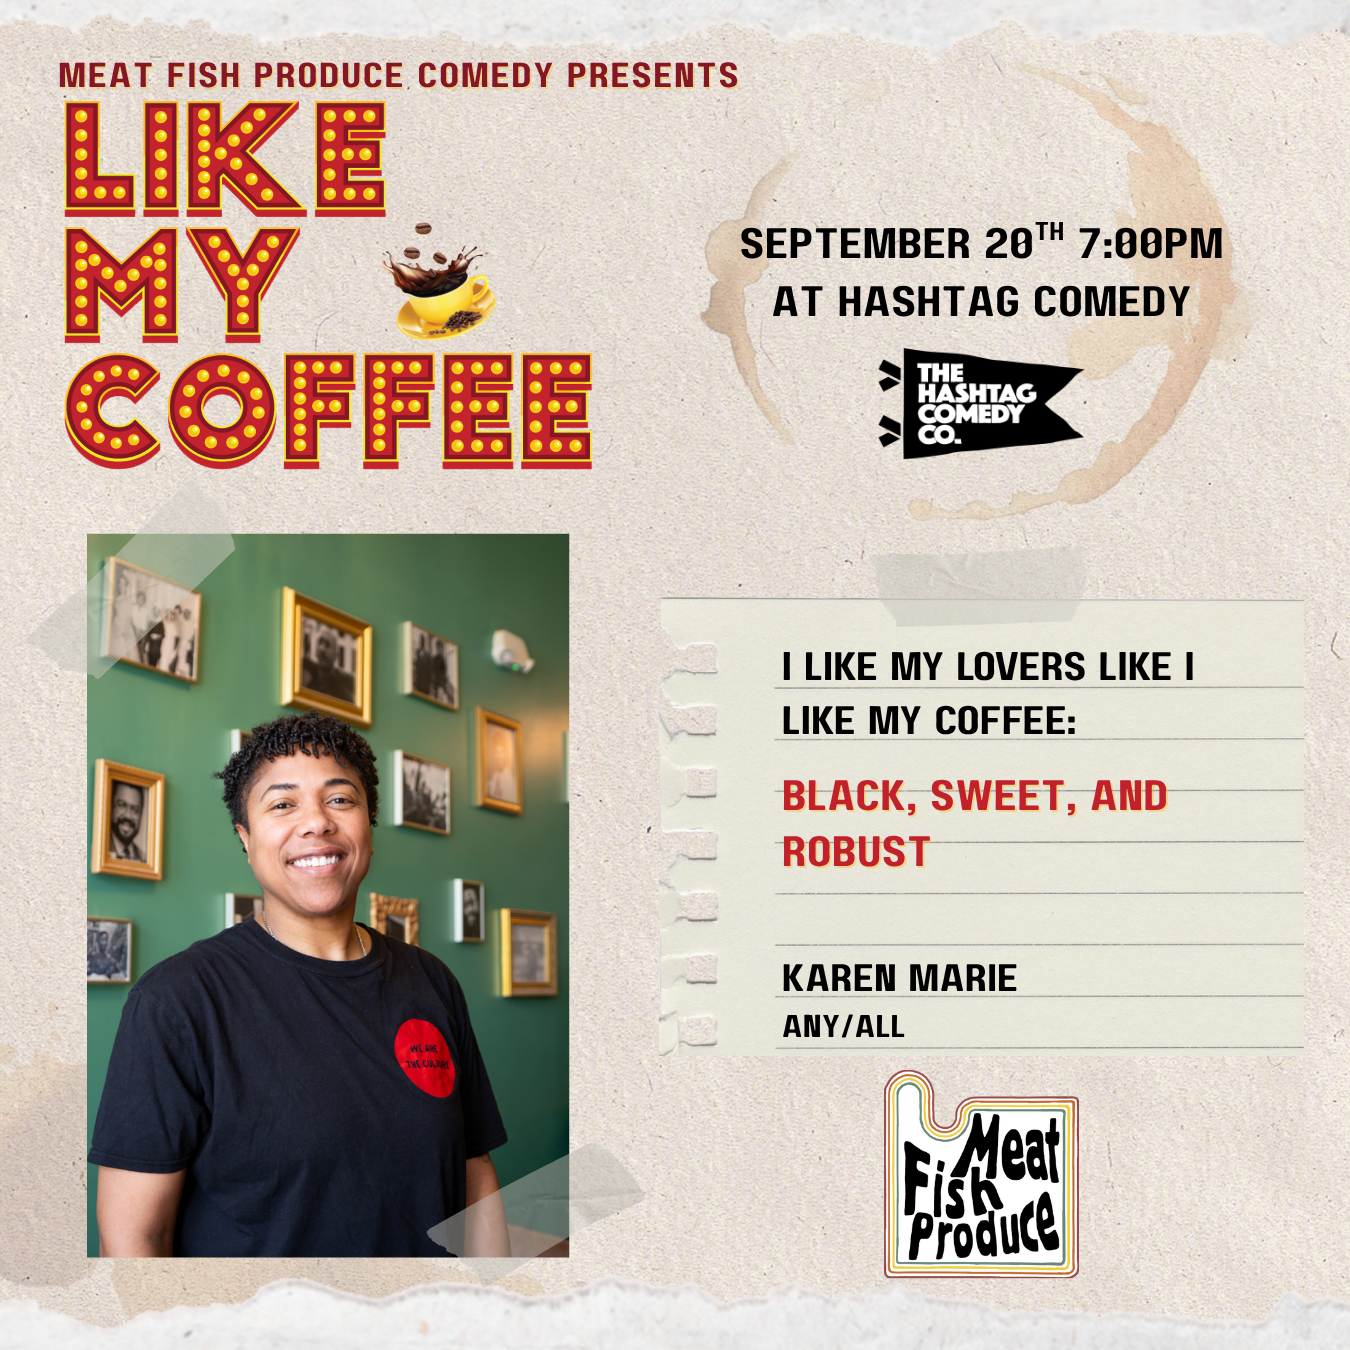
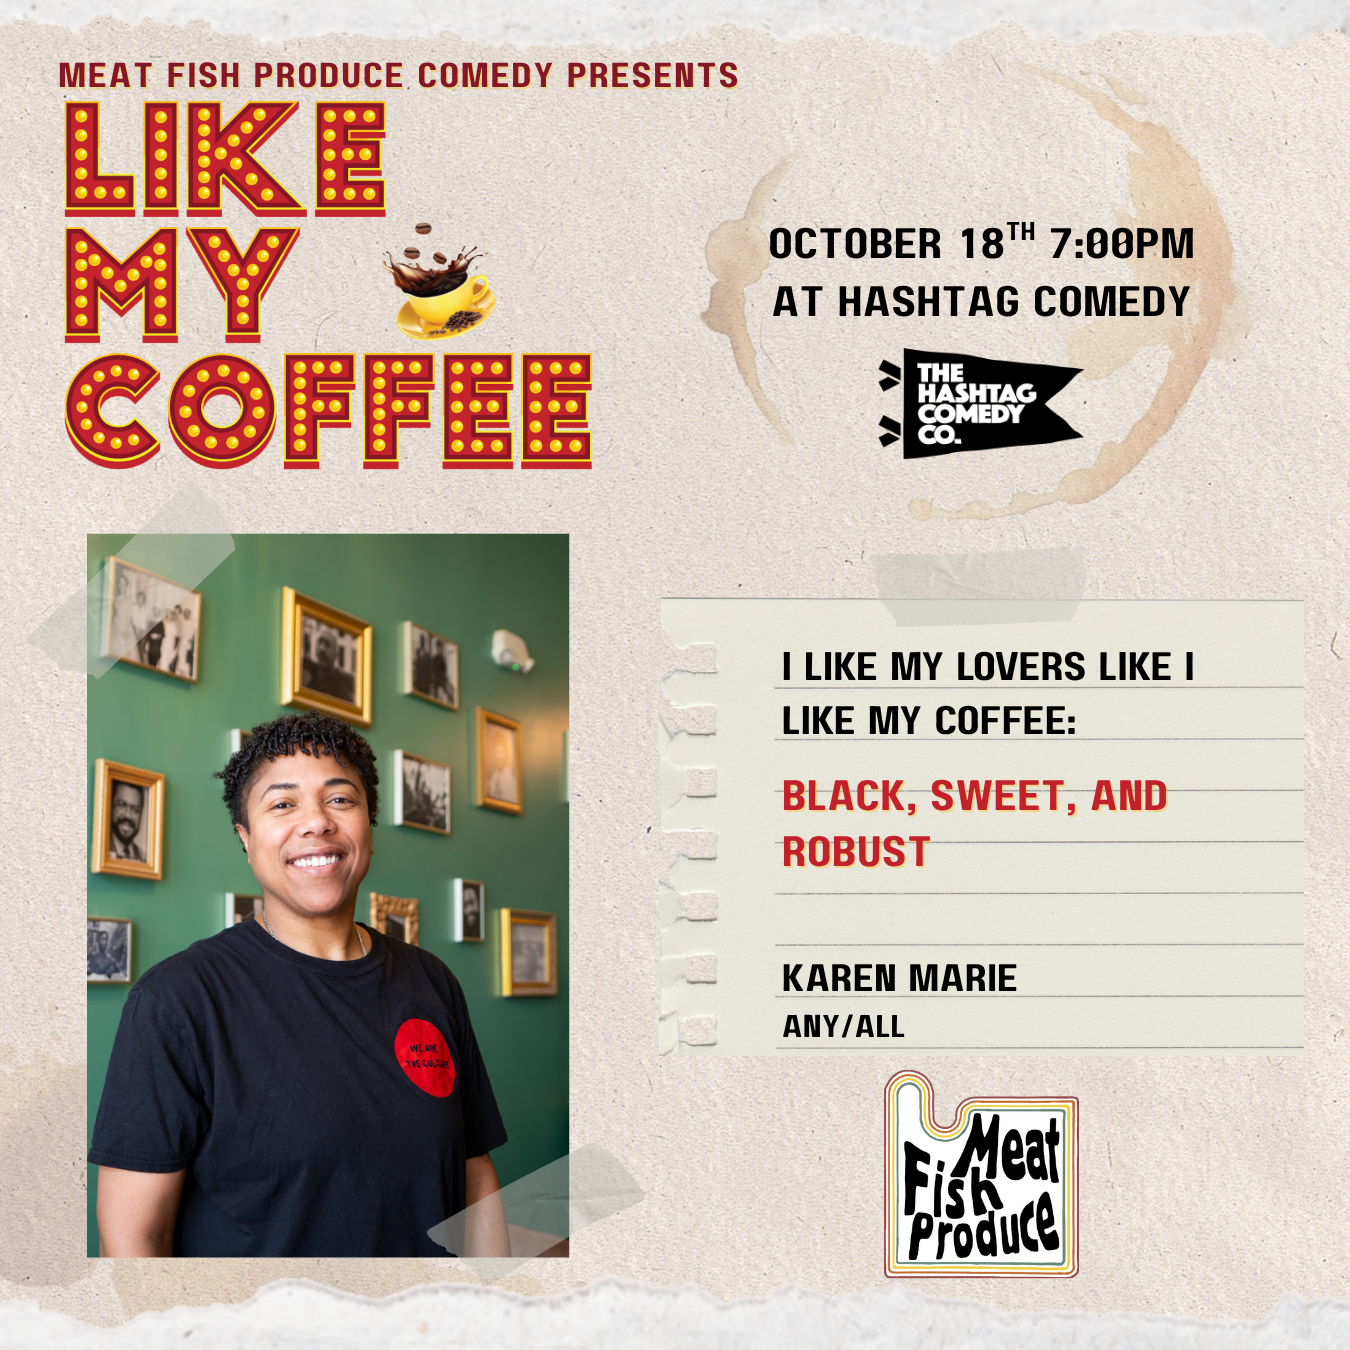
Prepping for October 18 show

Changed region(s): [[0.5289, 0.1556, 0.9022, 0.2178]]

diff --git a/server/src/shows/20261018.ts b/server/src/shows/20261018.ts
@@ -1,0 +1,156 @@
+import { ShowType } from "../../sharedCopy";
+import { minigames } from "./games";
+
+export const show: ShowType = {
+	rounds: [
+		{
+			players: [
+				{
+					displayName: "Benito",
+					pronouns: "He/Him",
+					score: 0,
+					soundIndex: 0,
+					isWinner: false,
+				},
+				{
+					displayName: "Lulu",
+					pronouns: "She/Her",
+					score: 0,
+					soundIndex: 1,
+					isWinner: false,
+				},
+				{
+					displayName: "LeRon",
+					pronouns: "He/Him",
+					score: 0,
+					soundIndex: 2,
+					isWinner: false,
+				},
+			],
+			minigame: minigames.kids.name,
+			example: minigames.kids.example,
+			timelength: 12,
+			prompts: [
+				"Something in your living room",
+				"Profession you want",
+				"Something you want",
+			],
+		},
+		{
+			players: [
+				{
+					displayName: "Danny",
+					pronouns: "He/Him",
+					score: 0,
+					soundIndex: 3,
+					isWinner: false,
+				},
+				{
+					displayName: "Laura",
+					pronouns: "She/Her",
+					score: 0,
+					soundIndex: 4,
+					isWinner: false,
+				},
+				{
+					displayName: "Justin",
+					pronouns: "He/Him",
+					score: 0,
+					soundIndex: 5,
+					isWinner: false,
+				},
+			],
+			minigame: minigames.scare.name,
+			example: minigames.scare.example,
+			timelength: 12,
+			prompts: [
+				"Something in your kitchen",
+				"Profession you work now",
+				"Something you need",
+			],
+		},
+		{
+			players: [
+				{
+					displayName: "Chakra Quan",
+					pronouns: "She/Her",
+					score: 0,
+					soundIndex: 6,
+					isWinner: false,
+				},
+				{
+					displayName: "Karen",
+					pronouns: "Any/All",
+					score: 0,
+					soundIndex: 7,
+					isWinner: false,
+				},
+				{
+					displayName: "Karissa",
+					pronouns: "She/Her",
+					score: 0,
+					soundIndex: 8,
+					isWinner: false,
+				},
+			],
+			minigame: minigames.sponsored.name,
+			example: minigames.sponsored.example,
+			timelength: 12,
+			prompts: [
+				"Something in your bathroom",
+				"Profession you hate",
+				"Something you hate",
+			],
+		},
+		{
+			players: [
+				{
+					displayName: "Dummy Data",
+					pronouns: "",
+					score: 0,
+					soundIndex: 9,
+					isWinner: false,
+				},
+				{
+					displayName: "Dummy Data",
+					pronouns: "",
+					score: 0,
+					soundIndex: 10,
+					isWinner: false,
+				},
+				{
+					displayName: "Dummy Data",
+					pronouns: "",
+					score: 0,
+					soundIndex: 11,
+					isWinner: false,
+				},
+			],
+			minigame: "",
+			example: "",
+			timelength: 10,
+			prompts: [
+				"Something in your Attic/Basement",
+				"Profession you're unqualified for",
+				"Something someone gave you",
+			],
+		},
+	],
+	images: [
+		"Benito.png",
+		"Chakra.png",
+		"Danny.png",
+		"Justin.png",
+		"Karen.png",
+		"Karissa.png",
+		"Laura.png",
+		"LeRon.png",
+		"Lulu.png",
+		"Chris.png",
+		"GCAC.png",
+		"Linktree.png",
+		"AI.png",
+		"Apply.png",
+	],
+	logo: "logo.png",
+};

diff --git a/server/src/shows/archived/20260920.ts b/server/src/shows/archived/20260920.ts
@@ -1,5 +1,5 @@
-import { ShowType } from "../../sharedCopy";
-import { minigames } from "./games";
+import { ShowType } from "../../../sharedCopy";
+import { minigames } from "../games";
 
 export const show: ShowType = {
 	rounds: [

diff --git a/server/src/shows/games.ts b/server/src/shows/games.ts
@@ -21,6 +21,6 @@ export const minigames = {
 	},
 	kids: {
 		name: "Kids Say Some Messed Up Things",
-		example: "Toot, juice box, a dark dark forest"
+		example: "Tree, Tickle, iPad"
 	}
 };

diff --git a/server/src/shows/index.ts b/server/src/shows/index.ts
@@ -1,2 +1,2 @@
 //Update where this points to before every new show!
-export * from "./20260920";
+export * from "./20261018";
